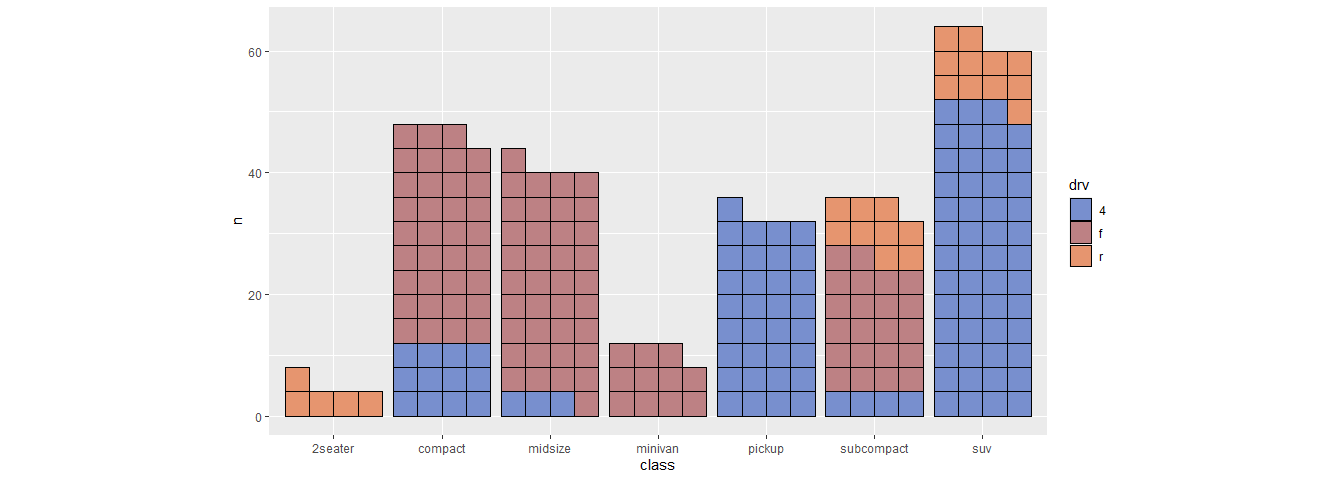
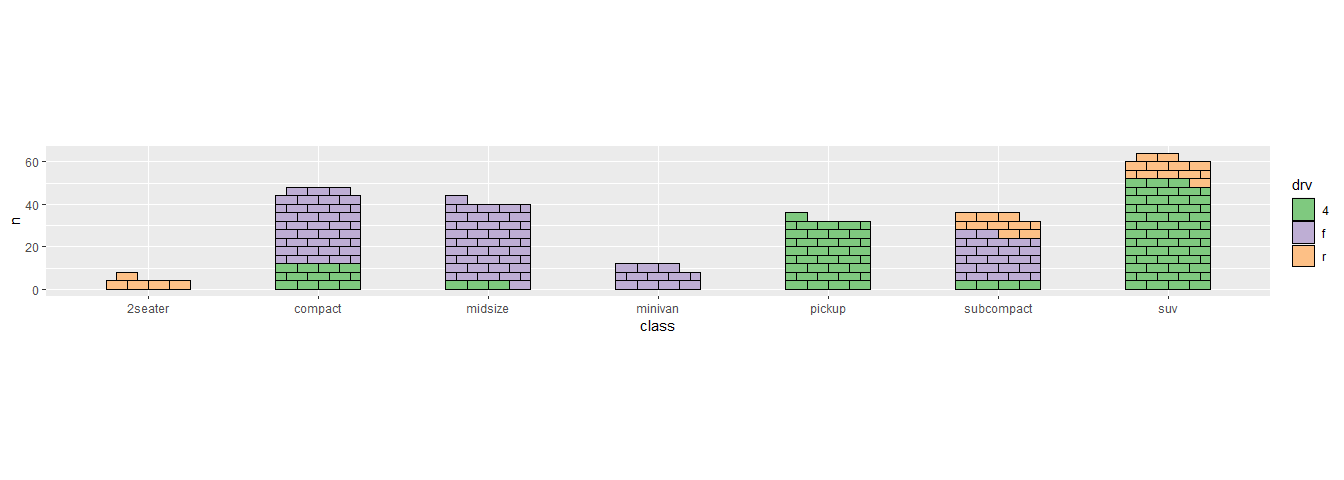
DOC update doc for CRAN release

diff --git a/README.md b/README.md
@@ -9,7 +9,13 @@ unit. Two half bricks equal one whole brick.
 
 ## Installation
 
-Install from Git
+Install from CRAN
+
+``` r
+install.packages("ggbrick")
+```
+
+Or from Git.
 
 ``` r
 devtools::install_github("doehm/ggbrick")
@@ -21,41 +27,46 @@ Simple example
 library(ggplot2)
 library(ggbrick)
 
-d10 <- c("#788FCE", "#BD8184", "#E6956F", "#F2CC8F", "#A6BA96", "#C5E8E3", 
-         "#F4F1DE", "#CDC3D4", "#A88AD2", "#60627C")
-
 mpg |>
   count(class, drv) |>
   ggplot() +
   geom_brick(aes(class, n, fill = drv)) +
-  scale_fill_manual(values = d10) +
+  scale_fill_brewer(type = "qual") +
   coord_brick()
 ```
 
-<img src='dev/images/pic0.png'>
+![](README_files/figure-gfm/unnamed-chunk-4-1.png)<!-- -->
+
+<!-- <img src='dev/images/pic0.png'> -->
 
 The fill can be randomised to create a different look with
 `type = 'random'` or `type = 'soft_random'`.
 
-<img src='dev/images/pic2.png'>
-
-In this case each brick represents a car (a row) in `mpg`. When the
-number of bricks gets too large, the number of brick layers will be
-capped and the number of bricks will be scaled down. The proportions of
-the fill aesthetic will be held consistent. This can be adjusted with
-the `brick_layers` parameter.
-
 ``` r
 mpg |>
-  count(class, trans) |>
-  mutate(n = 5*n) |>
+  count(class, drv) |>
   ggplot() +
-  geom_brick(aes(class, n, fill = trans)) +
-  scale_fill_manual(values = d10) +
+  geom_brick(aes(class, n, fill = drv), type = "random") +
+  scale_fill_brewer(type = "qual") +
   coord_brick()
 ```
 
-<img src='dev/images/pic1.png'>
+![](README_files/figure-gfm/unnamed-chunk-5-1.png)<!-- -->
+
+``` r
+mpg |>
+  count(class, drv) |>
+  ggplot() +
+  geom_brick(aes(class, n, fill = drv), type = "soft_random") +
+  scale_fill_brewer(type = "qual") +
+  coord_brick()
+```
+
+![](README_files/figure-gfm/unnamed-chunk-5-2.png)<!-- -->
+
+<!-- <img src='dev/images/pic2.png'> -->
+
+In this case each brick represents a car (a row) in `mpg`.
 
 You can also adjust the number of bricks per layer with the
 `bricks_per_layer` parameter.
@@ -65,7 +76,9 @@ ggplot() +
   geom_brick(aes(x = 1, y = 96), fill = "firebrick", bricks_per_layer = 8)
 ```
 
-<img src='dev/images/pic3.png'>
+![](README_files/figure-gfm/unnamed-chunk-6-1.png)<!-- -->
+
+<!-- <img src='dev/images/pic3.png'> -->
 
 You can control with width with `width`. To keep the right aspect ratio
 also use `coord_brick(width = 0.5)`
@@ -76,10 +89,10 @@ mpg |>
   ggplot() +
   geom_brick0(aes(class, n, fill = drv), width = 0.5) +
   coord_brick(width = 0.5) +
-  scale_fill_manual(values = d10)
+  scale_fill_brewer(type = "qual")
 ```
 
-![](README_files/figure-gfm/unnamed-chunk-6-1.png)<!-- -->
+![](README_files/figure-gfm/unnamed-chunk-7-1.png)<!-- -->
 
 ## Waffle
 
@@ -93,10 +106,10 @@ mpg |>
   ggplot() +
   geom_waffle0(aes(class, n, fill = drv))+
   coord_waffle() +
-  scale_fill_manual(values = d10)
+  scale_fill_brewer(type = "qual")
 ```
 
-![](README_files/figure-gfm/unnamed-chunk-7-1.png)<!-- -->
+![](README_files/figure-gfm/unnamed-chunk-8-1.png)<!-- -->
 
 ``` r
 mpg |>
@@ -104,10 +117,10 @@ mpg |>
   ggplot() +
   geom_waffle(aes(class, n, fill = drv), gap = 0.02)+
   coord_waffle() +
-  scale_fill_manual(values = d10)
+  scale_fill_brewer(type = "qual")
 ```
 
-![](README_files/figure-gfm/unnamed-chunk-7-2.png)<!-- -->
+![](README_files/figure-gfm/unnamed-chunk-8-2.png)<!-- -->
 
 To flip the coords you’ll have to use `theme(aspect.ratio = x)` to
 maintain the brick aspect ratio (square in the case of waffle)
@@ -117,11 +130,11 @@ mpg |>
   count(class, drv) |>
   ggplot() +
   geom_waffle0(aes(class, n, fill = drv)) +
-  scale_fill_manual(values = d10) +
+  scale_fill_brewer(type = "qual") +
   coord_flip() +
   theme(
     aspect.ratio = 2
   )
 ```
 
-![](README_files/figure-gfm/unnamed-chunk-8-1.png)<!-- -->
+![](README_files/figure-gfm/unnamed-chunk-9-1.png)<!-- -->
